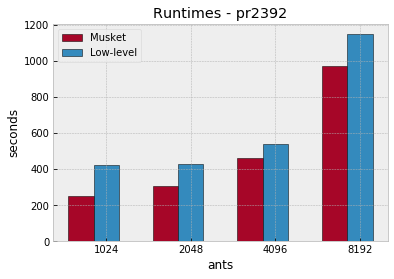
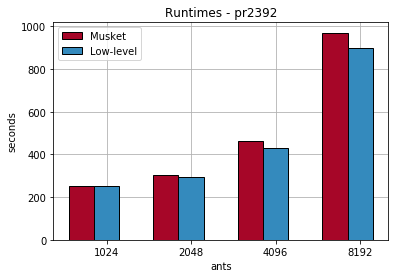
results updated

Changed region(s): [[0.0, 0.0288, 1.0, 0.9209], [0.5178, 0.9209, 0.6091, 0.9784]]

diff --git a/plot_scripts/graph_completeruntime_comparison.py b/plot_scripts/graph_completeruntime_comparison.py
@@ -26,16 +26,26 @@ Breno2048 = breno_data.iloc[2].astype(float)[:-1]
 Breno4096 = breno_data.iloc[3].astype(float)[:-1]
 Breno8192 = breno_data.iloc[4].astype(float)[:-1]
 
-BrenoBars_1024 = axes[0, 0].bar(ind+width, Breno1024, width, bottom=0)
-BrenoBars_2048 = axes[1, 0].bar(ind+width, Breno2048, width, bottom=0)
-BrenoBars_4096 = axes[0, 1].bar(ind+width, Breno4096, width, bottom=0)
-BrenoBars_8192 = axes[1, 1].bar(ind+width, Breno8192, width, bottom=0)
+BrenoBars_1024 = axes[0, 0].bar(ind+width, Breno1024, width, bottom=0, color = '#348ABD')
+BrenoBars_2048 = axes[1, 0].bar(ind+width, Breno2048, width, bottom=0, color = '#348ABD')
+BrenoBars_4096 = axes[0, 1].bar(ind+width, Breno4096, width, bottom=0, color = '#348ABD')
+BrenoBars_8192 = axes[1, 1].bar(ind+width, Breno8192, width, bottom=0, color = '#348ABD')
 
-MusketBars_1024 = axes[0, 0].bar(ind, Musket1024, width,  bottom=0)
-MusketBars_2048 = axes[1, 0].bar(ind, Musket2048, width,  bottom=0)
-MusketBars_4096 = axes[0, 1].bar(ind, Musket4096, width,  bottom=0)
-MusketBars_8192 = axes[1, 1].bar(ind, Musket8192, width,  bottom=0)
+MusketBars_1024 = axes[0, 0].bar(ind, Musket1024, width,  bottom=0, color = '#A60628')
+MusketBars_2048 = axes[1, 0].bar(ind, Musket2048, width,  bottom=0, color = '#A60628')
+MusketBars_4096 = axes[0, 1].bar(ind, Musket4096, width,  bottom=0, color = '#A60628')
+MusketBars_8192 = axes[1, 1].bar(ind, Musket8192, width,  bottom=0, color = '#A60628')
 
+axes[0, 0].set_axisbelow(True)
+axes[1, 0].set_axisbelow(True)
+axes[0, 1].set_axisbelow(True)
+axes[1, 1].set_axisbelow(True)
+
+axes[0, 0].grid()
+axes[1, 0].grid()
+axes[0, 1].grid()
+axes[1, 1].grid()
+                      
 axes[0, 0].set_title('1024 Ants')
 axes[1, 0].set_title('2048 Ants')
 axes[0, 1].set_title('4096 Ants')

diff --git a/plot_scripts/graph_route_kernelcompleteruntime_comparison.py b/plot_scripts/graph_route_kernelcompleteruntime_comparison.py
@@ -28,15 +28,25 @@ Breno2048 = breno_data.iloc[2].astype(float)[:-1]
 Breno4096 = breno_data.iloc[3].astype(float)[:-1]
 Breno8192 = breno_data.iloc[4].astype(float)[:-1]
 
-BrenoBars_1024 = axes[0, 0].bar(ind+width, Breno1024, width, bottom=0)
-BrenoBars_2048 = axes[1, 0].bar(ind+width, Breno2048, width, bottom=0)
-BrenoBars_4096 = axes[0, 1].bar(ind+width, Breno4096, width, bottom=0)
-BrenoBars_8192 = axes[1, 1].bar(ind+width, Breno8192, width, bottom=0)
+BrenoBars_1024 = axes[0, 0].bar(ind+width, Breno1024, width, bottom=0, color = '#348ABD')
+BrenoBars_2048 = axes[1, 0].bar(ind+width, Breno2048, width, bottom=0, color = '#348ABD')
+BrenoBars_4096 = axes[0, 1].bar(ind+width, Breno4096, width, bottom=0, color = '#348ABD')
+BrenoBars_8192 = axes[1, 1].bar(ind+width, Breno8192, width, bottom=0, color = '#348ABD')
 
-MusketBars_1024 = axes[0, 0].bar(ind, Musket1024, width,  bottom=0)
-MusketBars_2048 = axes[1, 0].bar(ind, Musket2048, width,  bottom=0)
-MusketBars_4096 = axes[0, 1].bar(ind, Musket4096, width,  bottom=0)
-MusketBars_8192 = axes[1, 1].bar(ind, Musket8192, width,  bottom=0)
+MusketBars_1024 = axes[0, 0].bar(ind, Musket1024, width,  bottom=0, color = '#A60628')
+MusketBars_2048 = axes[1, 0].bar(ind, Musket2048, width,  bottom=0, color = '#A60628')
+MusketBars_4096 = axes[0, 1].bar(ind, Musket4096, width,  bottom=0, color = '#A60628')
+MusketBars_8192 = axes[1, 1].bar(ind, Musket8192, width,  bottom=0, color = '#A60628')
+
+axes[0, 0].set_axisbelow(True)
+axes[1, 0].set_axisbelow(True)
+axes[0, 1].set_axisbelow(True)
+axes[1, 1].set_axisbelow(True)
+
+axes[0, 0].grid()
+axes[1, 0].grid()
+axes[0, 1].grid()
+axes[1, 1].grid()
 
 axes[0, 0].set_title('1024 Ants')
 axes[1, 0].set_title('2048 Ants')

diff --git a/plot_scripts/bar_graph_bigproblem_runtime_comparison.py b/plot_scripts/bar_graph_bigproblem_runtime_comparison.py
@@ -37,6 +37,10 @@ barWidth = 0.3
 r1 = np.arange(len(bars1))
 r2 = [x + barWidth for x in r1]
 
+fig, ax = plt.subplots()
+ax.set_axisbelow(True)
+ax.grid()
+
 # Create blue bars
 plt.bar(r1, bars1, width = barWidth, color = '#A60628', edgecolor = 'black', capsize=7, label='Musket')
 plt.bar(r2, bars2, width = barWidth, color = '#348ABD', edgecolor = 'black', capsize=7, label='Low-level')

diff --git a/plot_scripts/bar_graph_big_problem_routekernel_runtime_comparison.py b/plot_scripts/bar_graph_big_problem_routekernel_runtime_comparison.py
@@ -30,6 +30,10 @@ Breno8 = breno_data.iloc[4].astype(float)[9:]
 
 bars2 = [Breno1[9],Breno2[9],Breno4[9],Breno8[9]]
 
+fig, ax = plt.subplots()
+ax.set_axisbelow(True)
+ax.grid()
+
 # width of the bars
 barWidth = 0.3
 
